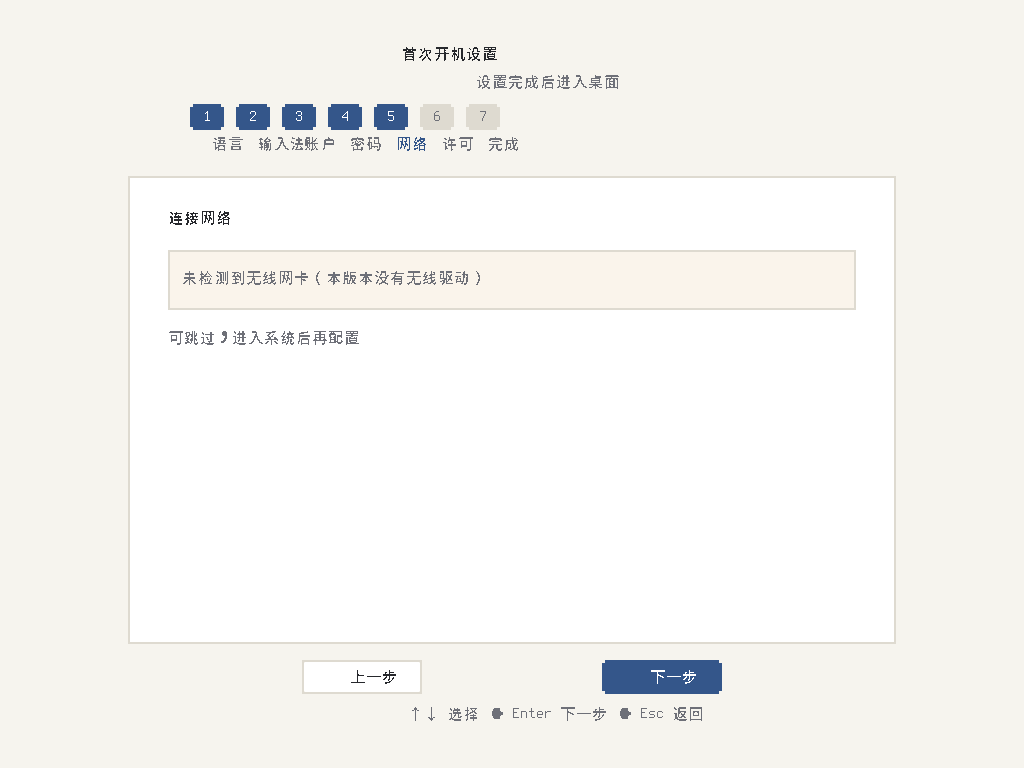
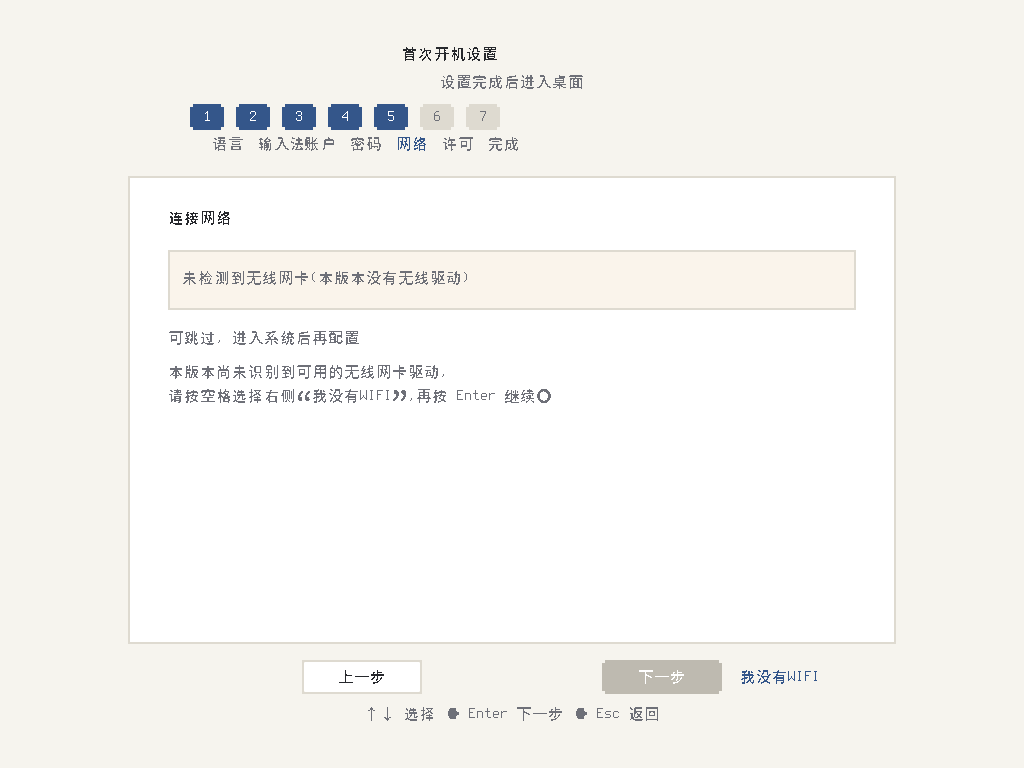
site: 0.9.2 下载与 OOBE 截图

diff --git a/index.html b/index.html
@@ -55,9 +55,9 @@ footer{margin-top:56px;border-top:1px solid var(--line);padding-top:18px;color:v
 <div class="card"><img class="shot" src="docs/assets/oobe-lang.png" alt="选择语言"><h3>1. 语言</h3><p>48 种，含简体中文与繁體中文，选中后界面文案即时切换。</p></div>
 <div class="card"><img class="shot" src="docs/assets/oobe-ime.png" alt="选择输入法"><h3>2. 输入法</h3><p>可选内置输入法，或从文件添加 .wct 输入法模块。</p></div>
 <div class="card"><img class="shot" src="docs/assets/oobe-s3.png" alt="创建账户"><h3>3. 账户</h3><p>输入用户名，默认普通用户组；管理员组需进系统后在设置里加。</p></div>
-<div class="card"><img class="shot" src="docs/assets/oobe-s5.png" alt="网络"><h3>4. 网络</h3><p>本版本没有无线驱动，这一步只能跳过，接有线请在系统里看 ipconfig。</p></div>
+<div class="card"><img class="shot" src="docs/assets/oobe-s5.png" alt="网络"><h3>4. 网络</h3><p>无可用无线网卡时“下一步”置灰，按空格选“我没有WIFI”即可跳过，接有线可在系统里看 ipconfig。</p></div>
 <div class="card"><img class="shot" src="docs/assets/oobe-s6.png" alt="许可"><h3>5. 许可</h3><p>勾选同意后进入最后一步。</p></div>
-<div class="card"><img class="shot" src="docs/assets/oobe-s7.png" alt="桌面"><h3>6. 完成</h3><p>配置写入 \wct\oobe.cfg，之后启动直接进桌面。</p></div>
+<div class="card"><img class="shot" src="docs/assets/oobe-s7.png" alt="桌面"><h3>6. 完成</h3><p>全屏锁定约 1-2 分钟，轮播诗句，完成后写 \wct\oobe.cfg 并进入桌面。</p></div>
 </div>
 <h2>现在能做的事</h2>
 <div class="grid">

diff --git a/docs/index.html b/docs/index.html
@@ -55,9 +55,9 @@ footer{margin-top:56px;border-top:1px solid var(--line);padding-top:18px;color:v
 <div class="card"><img class="shot" src="assets/oobe-lang.png" alt="选择语言"><h3>1. 语言</h3><p>48 种，含简体中文与繁體中文，选中后界面文案即时切换。</p></div>
 <div class="card"><img class="shot" src="assets/oobe-ime.png" alt="选择输入法"><h3>2. 输入法</h3><p>可选内置输入法，或从文件添加 .wct 输入法模块。</p></div>
 <div class="card"><img class="shot" src="assets/oobe-s3.png" alt="创建账户"><h3>3. 账户</h3><p>输入用户名，默认普通用户组；管理员组需进系统后在设置里加。</p></div>
-<div class="card"><img class="shot" src="assets/oobe-s5.png" alt="网络"><h3>4. 网络</h3><p>本版本没有无线驱动，这一步只能跳过，接有线请在系统里看 ipconfig。</p></div>
+<div class="card"><img class="shot" src="assets/oobe-s5.png" alt="网络"><h3>4. 网络</h3><p>无可用无线网卡时“下一步”置灰，按空格选“我没有WIFI”即可跳过，接有线可在系统里看 ipconfig。</p></div>
 <div class="card"><img class="shot" src="assets/oobe-s6.png" alt="许可"><h3>5. 许可</h3><p>勾选同意后进入最后一步。</p></div>
-<div class="card"><img class="shot" src="assets/oobe-s7.png" alt="桌面"><h3>6. 完成</h3><p>配置写入 \wct\oobe.cfg，之后启动直接进桌面。</p></div>
+<div class="card"><img class="shot" src="assets/oobe-s7.png" alt="桌面"><h3>6. 完成</h3><p>全屏锁定约 1-2 分钟，轮播诗句，完成后写 \wct\oobe.cfg 并进入桌面。</p></div>
 </div>
 <h2>现在能做的事</h2>
 <div class="grid">
